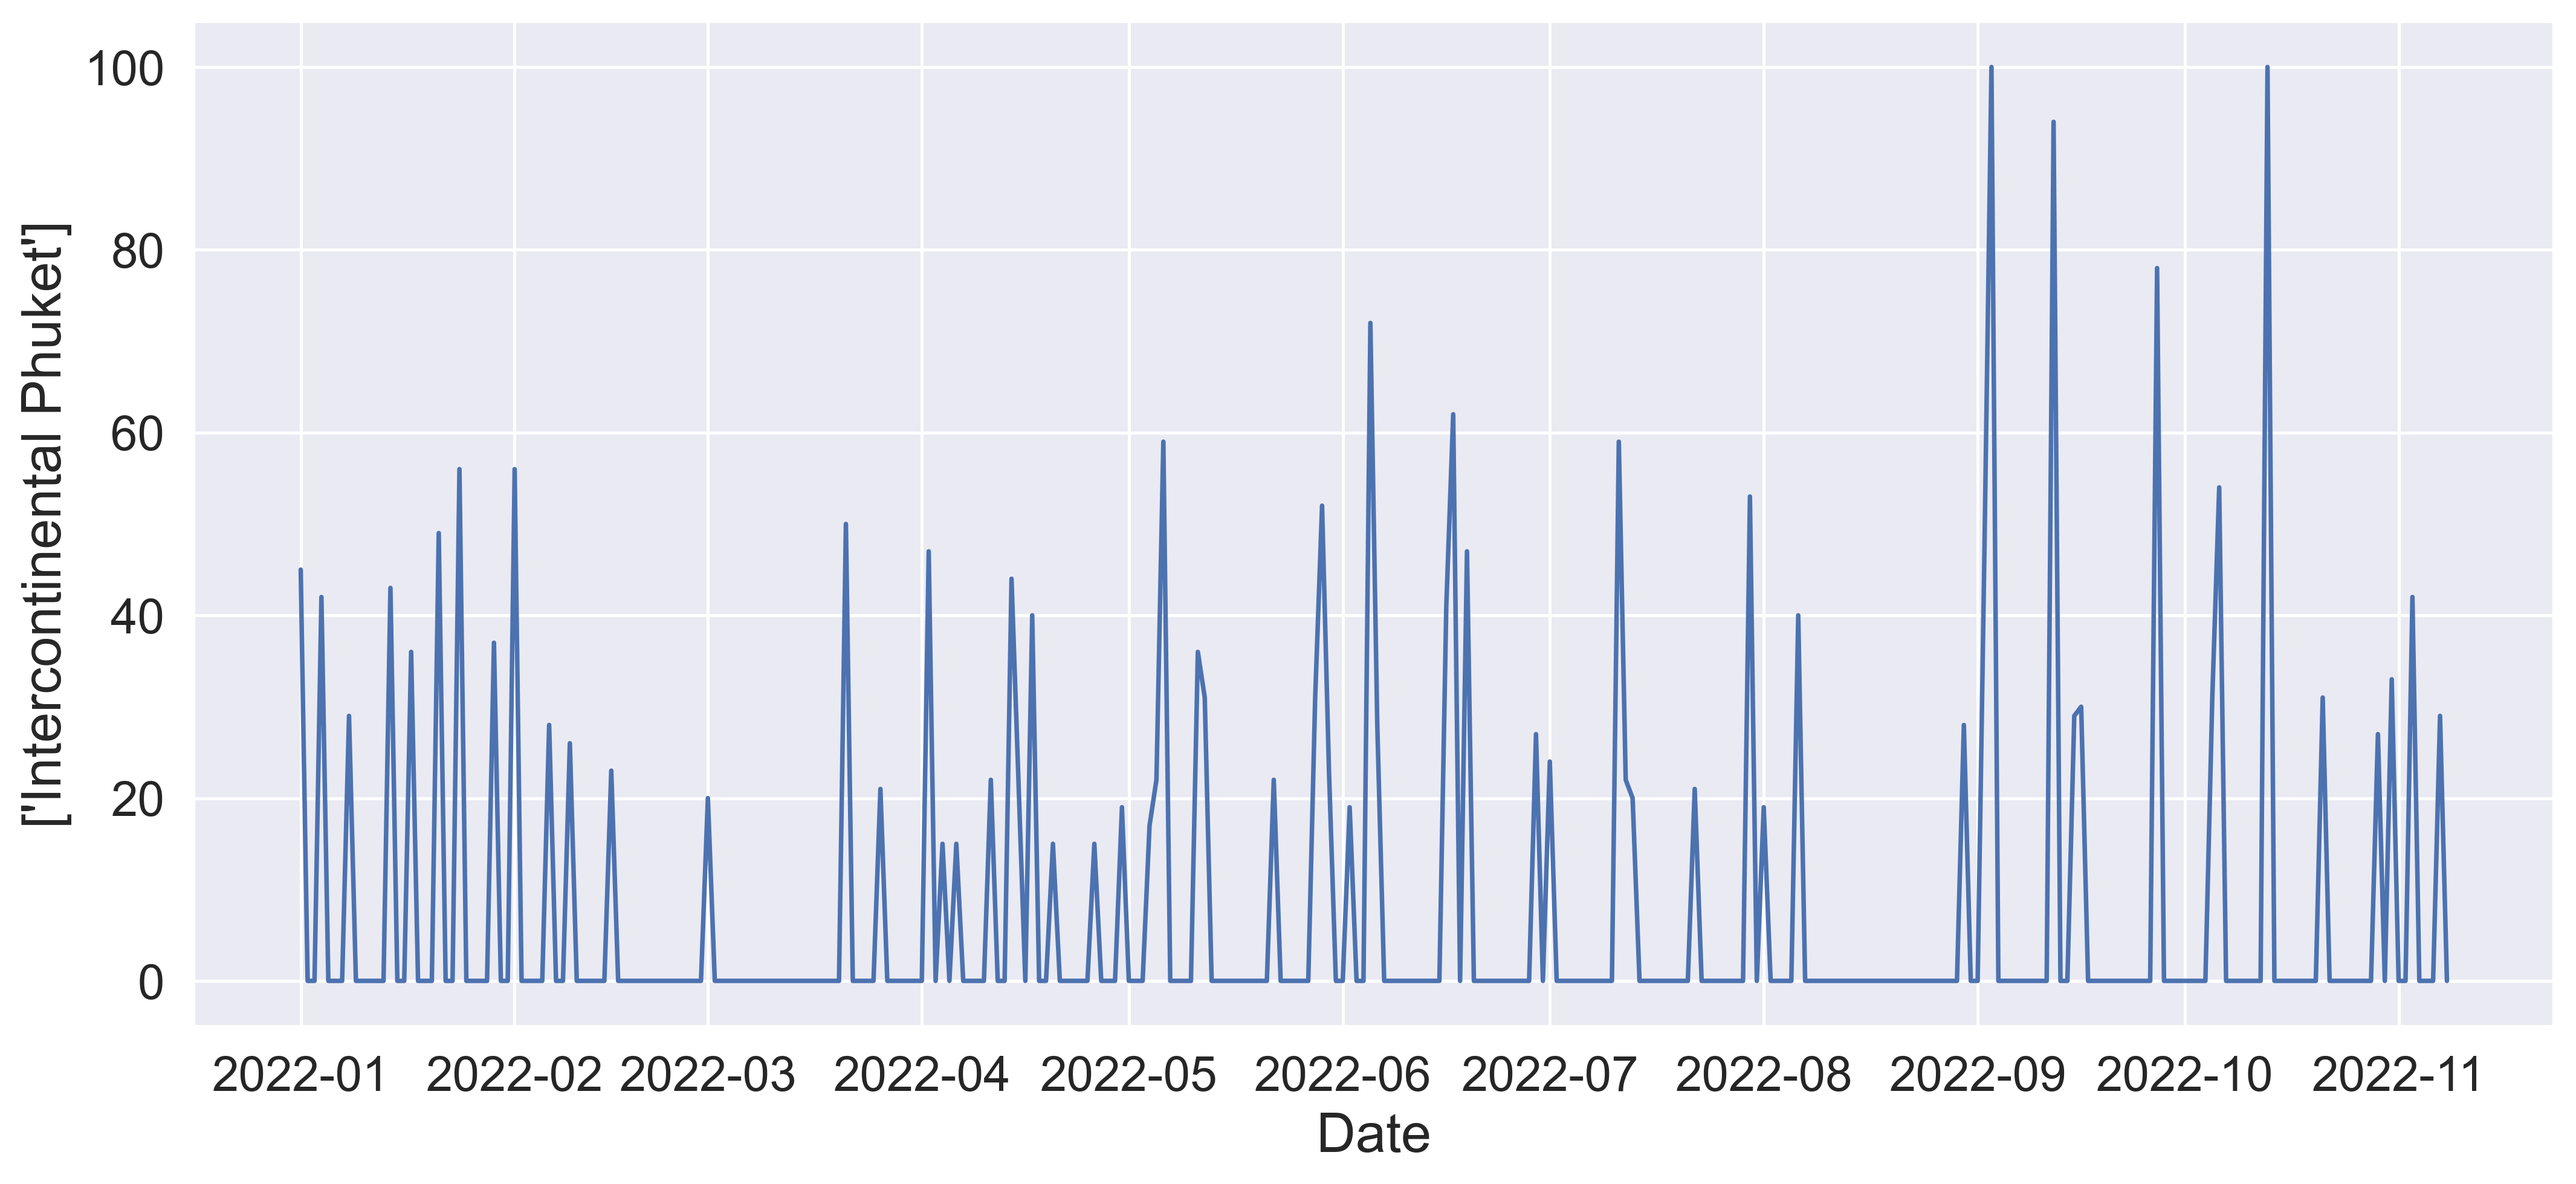
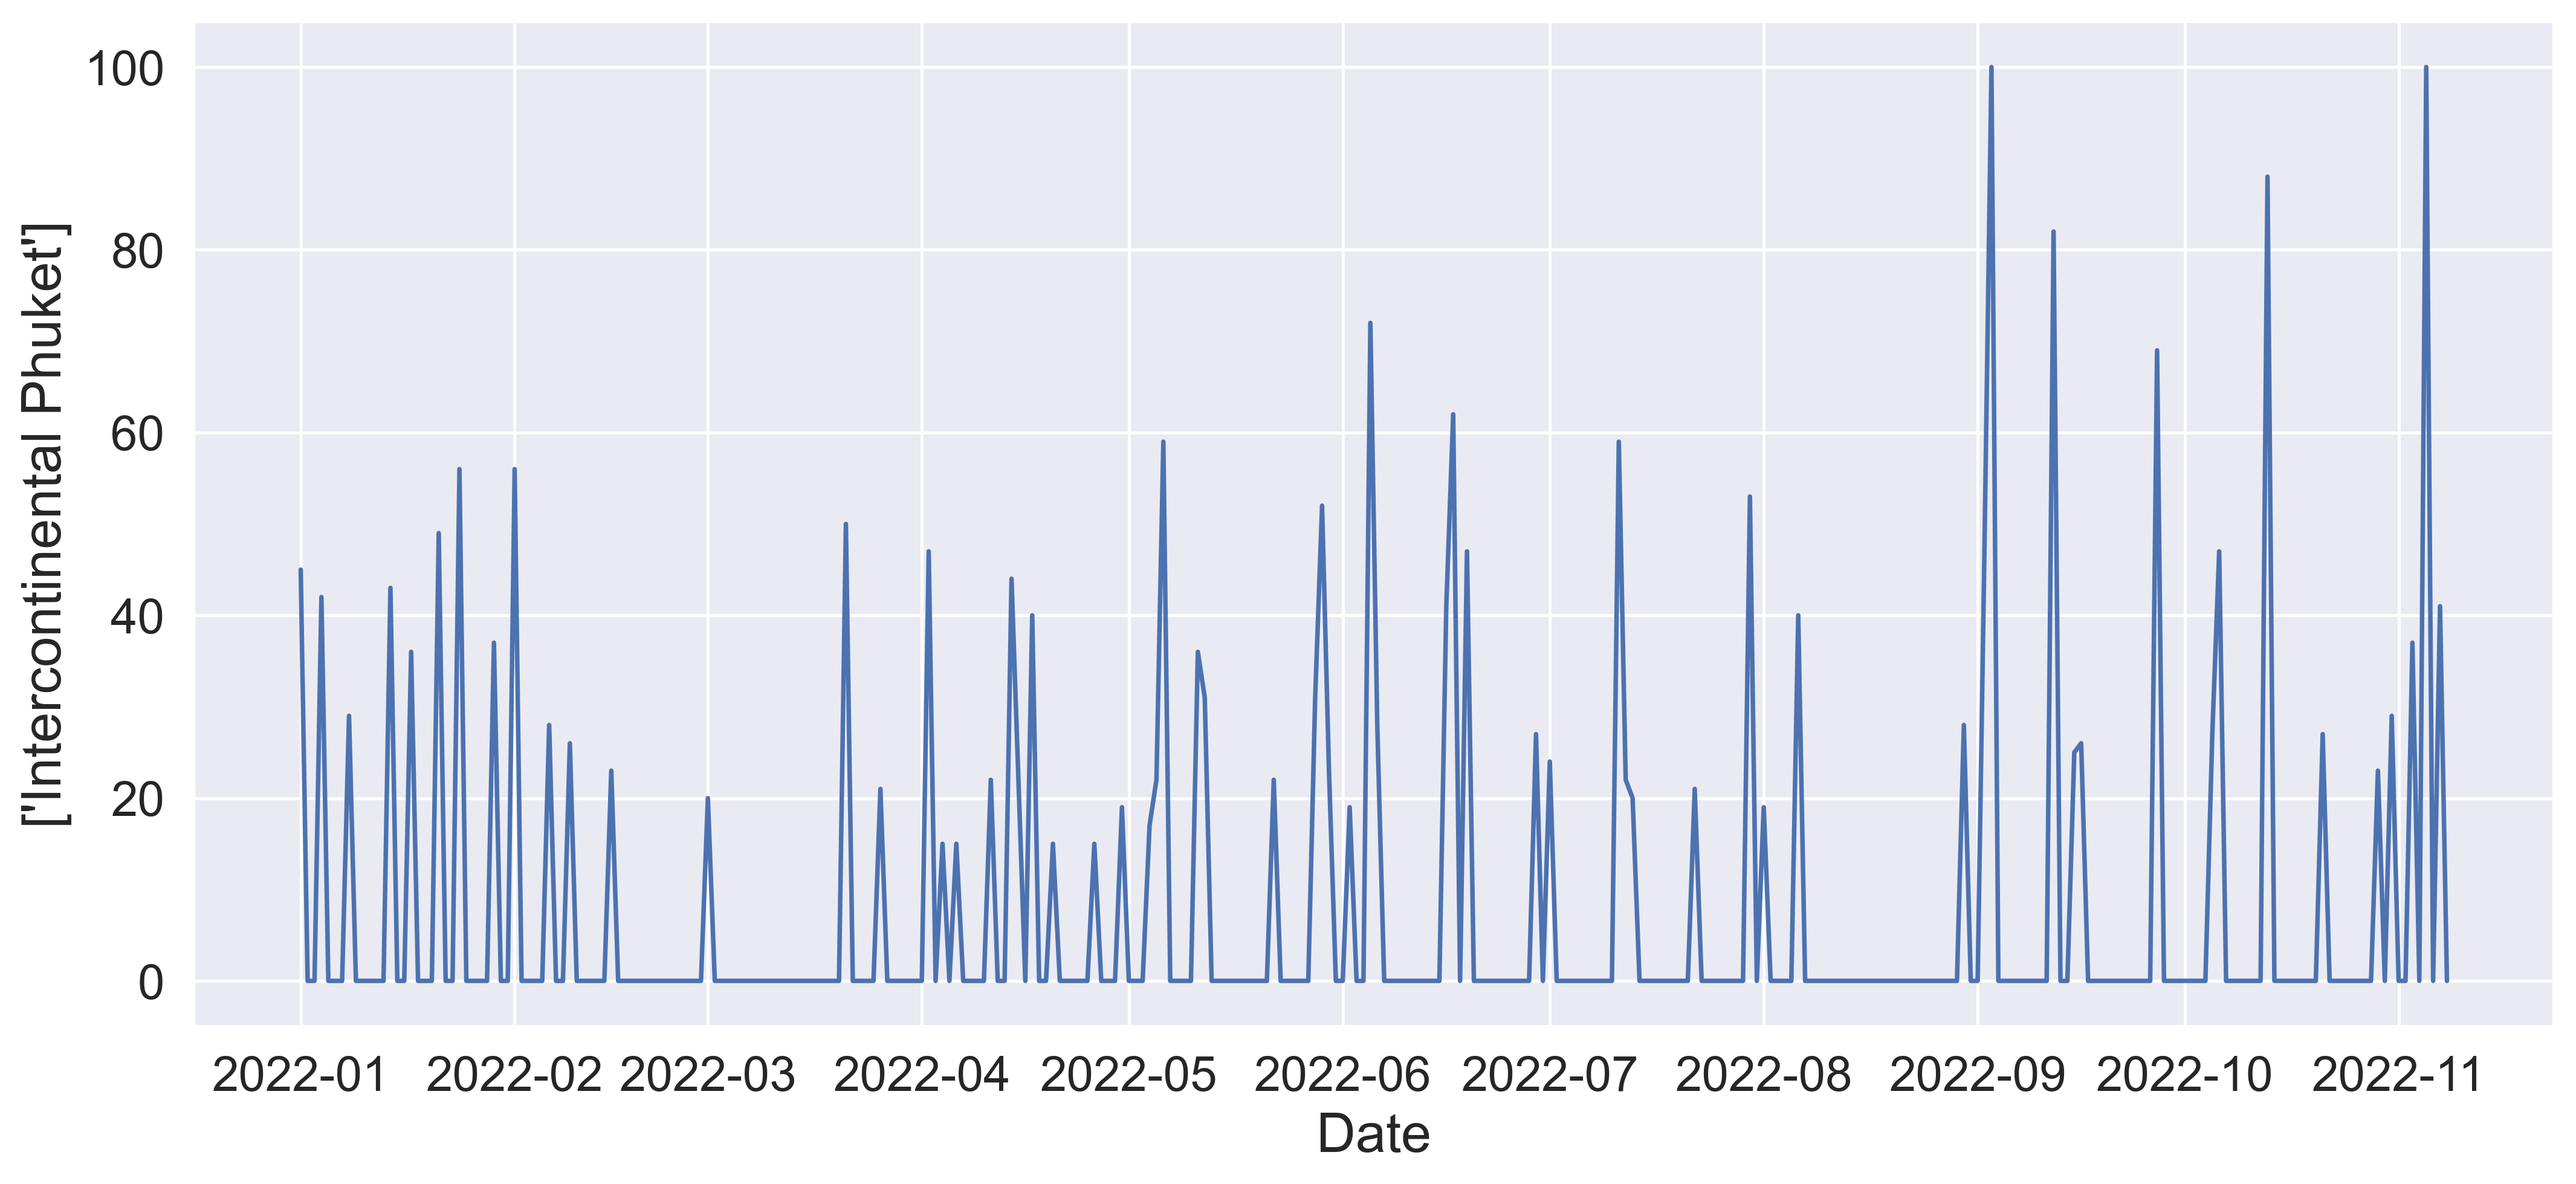
lots of updates and a graph

Changed region(s): [[0.905, 0.218, 0.9674, 0.7785], [0.7802, 0.5916, 0.8114, 0.6539], [0.8738, 0.5916, 0.905, 0.6228]]

diff --git a/PyTrends/pytrend_scan_google_trends.py b/PyTrends/pytrend_scan_google_trends.py
@@ -1,7 +1,5 @@
 # %% [markdown]
-# ### Google Trends
 
-# %% [markdown]
 # #### 1. Install PyTrends
 
 # %%
@@ -13,12 +11,13 @@
 
 
 # %%
+import pytrends
+from pytrends.request import TrendReq
 import pandas as pd
 from pandas.tseries.holiday import USFederalHolidayCalendar as calendar
 import numpy as np
 import datetime as dt
 from datetime import date
-from pytrends.request import TrendReq
 from statsmodels.tsa.seasonal import seasonal_decompose
 import seaborn as sns
 import matplotlib.pyplot as plt
@@ -31,11 +30,10 @@ pd.set_option('display.max_rows', None)
 pytrends = TrendReq(hl='en_US', tz=360)
 # sns.set_theme()
 
-# %% [markdown]
-# #### Retrieve Google Trends Data
-
 # %%
 # kw_list = ['Pimalai Resort & Spa']
+
+
 
 kw_list = ['Intercontinental Phuket']
 frequency = 'daily' # must be  hourly or daily

diff --git a/README.md b/README.md
@@ -1,5 +1,7 @@
 # PyTrends
 
+# graph
+https://drive.google.com/file/d/13wUeT3ZHQvngwHiQMOKoPEb5WjIF8Fmm/view?usp=sharing
 
 # TODO
 * Set a timer in between running individual searches
